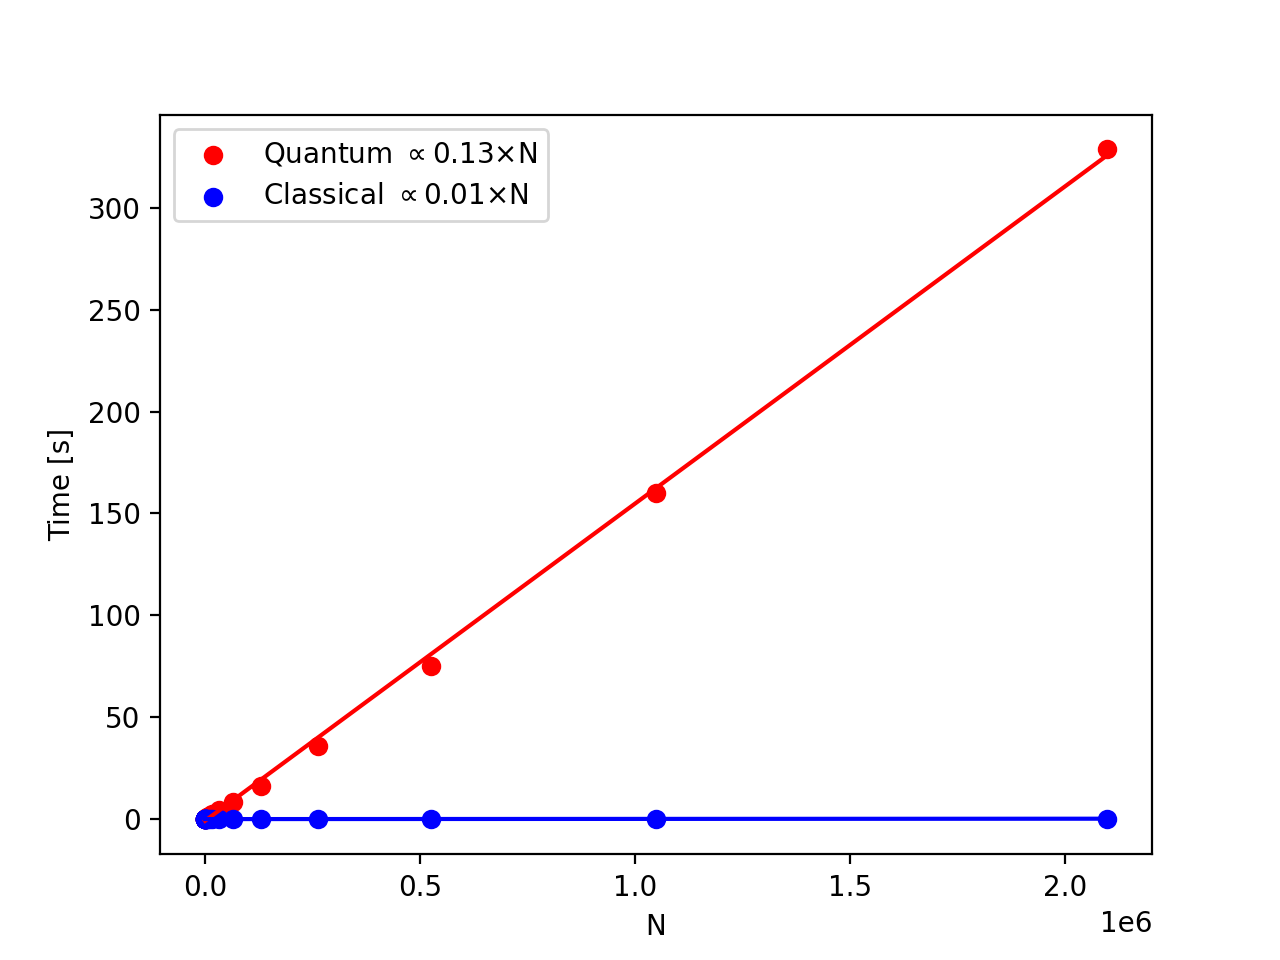
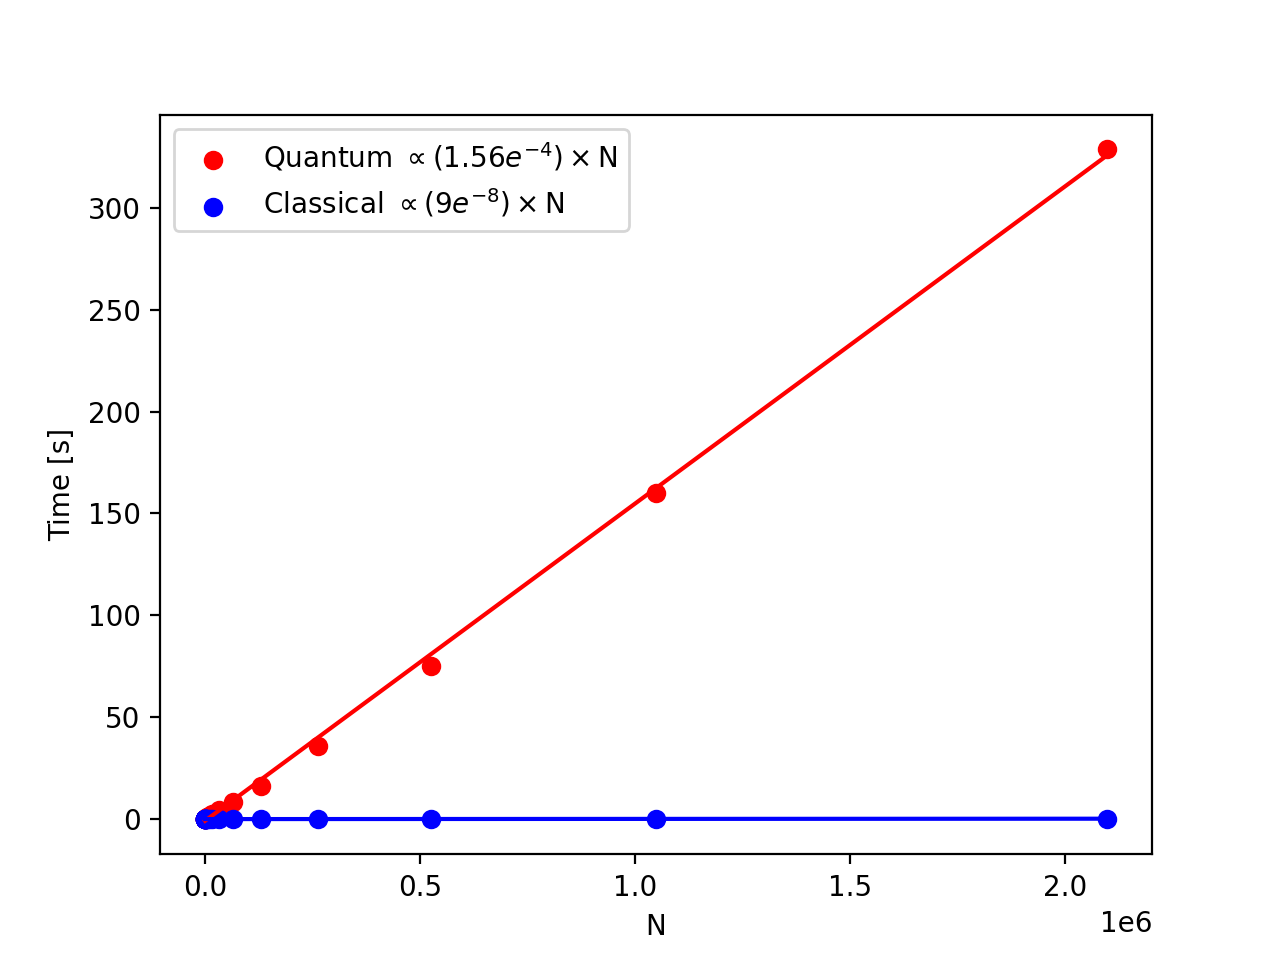
scaling test

Changed region(s): [[0.125, 0.125, 0.5, 0.25]]

diff --git a/Scaling Results/vfit_npoly_scaling.py b/Scaling Results/vfit_npoly_scaling.py
@@ -80,9 +80,9 @@ for j in range(it):
     """============Input Data Sets Here and Polynomial Order================="""
 
     x = np.arange(0,2**(j+2),1)
-    y = (2*x-1)**3 + [random.uniform(-5,5) for p in range(2**(j+2))]
+    y = (2*x-1)**9 + [random.uniform(-5,5) for p in range(2**(j+2))]
     Ns[j] = 2**(j+2)
-    order = 3
+    order = 9
 
     """===============Normalising y data set and \ket{1}====================="""
 
@@ -132,16 +132,26 @@ for j in range(it):
     print("Classical Fit: ", class_fit)
 
 """==========================Plotting===================================="""
-
+"""
 print("Quantum Times: ", qtimes)
 print("Classical Times: ", ctimes)
 
-"""plt.scatter(Ns, qtimes, label="Quantum")
-plt.scatter(Ns, ctimes, label="Classical")
+qtimesfit = np.polyfit(Ns, qtimes, 1)
+ctimesfit = np.polyfit(Ns, ctimes, 1)
+
+Ntimesfit = np.linspace(min(Ns), max(Ns), 100)
+
+plt.scatter(Ns, qtimes, color='r', label="Quantum $\propto$"+str(np.round(qtimesfit[0],2))+"$\\times$N")
+plt.scatter(Ns, ctimes, color='b', label="Classical $\propto$"+str(np.round(ctimesfit[0],2))+"$\\times$N")
+plt.plot(Ntimesfit, Ntimesfit*qtimesfit[0]+qtimesfit[1], 'r')
+plt.plot(Ntimesfit, Ntimesfit*ctimesfit[0]+ctimesfit[1], 'b')
+
 plt.legend()
 plt.xlabel("N")
 plt.ylabel("Time [s]")
-plt.show()"""
+plt.show()
+
+"""
 
 #Results from running on Kay @ ICHEC follow:
 
@@ -154,11 +164,12 @@ for i in range(len(kay_ctimes)):
     
 kay_qtimesfit = np.polyfit(Ns, kay_qtimes, 1)
 kay_ctimesfit = np.polyfit(Ns, kay_ctimes, 1)
+print(kay_ctimesfit, kay_qtimesfit)
 
 Ntimesfit = np.linspace(min(Ns), max(Ns), 100)
 
-plt.scatter(Ns, kay_qtimes, color='r', label="Quantum $\propto$"+str(np.round(kay_qtimes[0],2))+"$\\times$N")
-plt.scatter(Ns, kay_ctimes, color='b', label="Classical $\propto$"+str(np.round(kay_ctimes[0],2))+"$\\times$N")
+plt.scatter(Ns, kay_qtimes, color='r', label="Quantum $\propto (1.56e^{-4}) \\times$N")
+plt.scatter(Ns, kay_ctimes, color='b', label="Classical $\propto (9e^{-8}) \\times$N")
 plt.plot(Ntimesfit, Ntimesfit*kay_qtimesfit[0]+kay_qtimesfit[1], 'r')
 plt.plot(Ntimesfit, Ntimesfit*kay_ctimesfit[0]+kay_ctimesfit[1], 'b')
 plt.xlabel("N")
